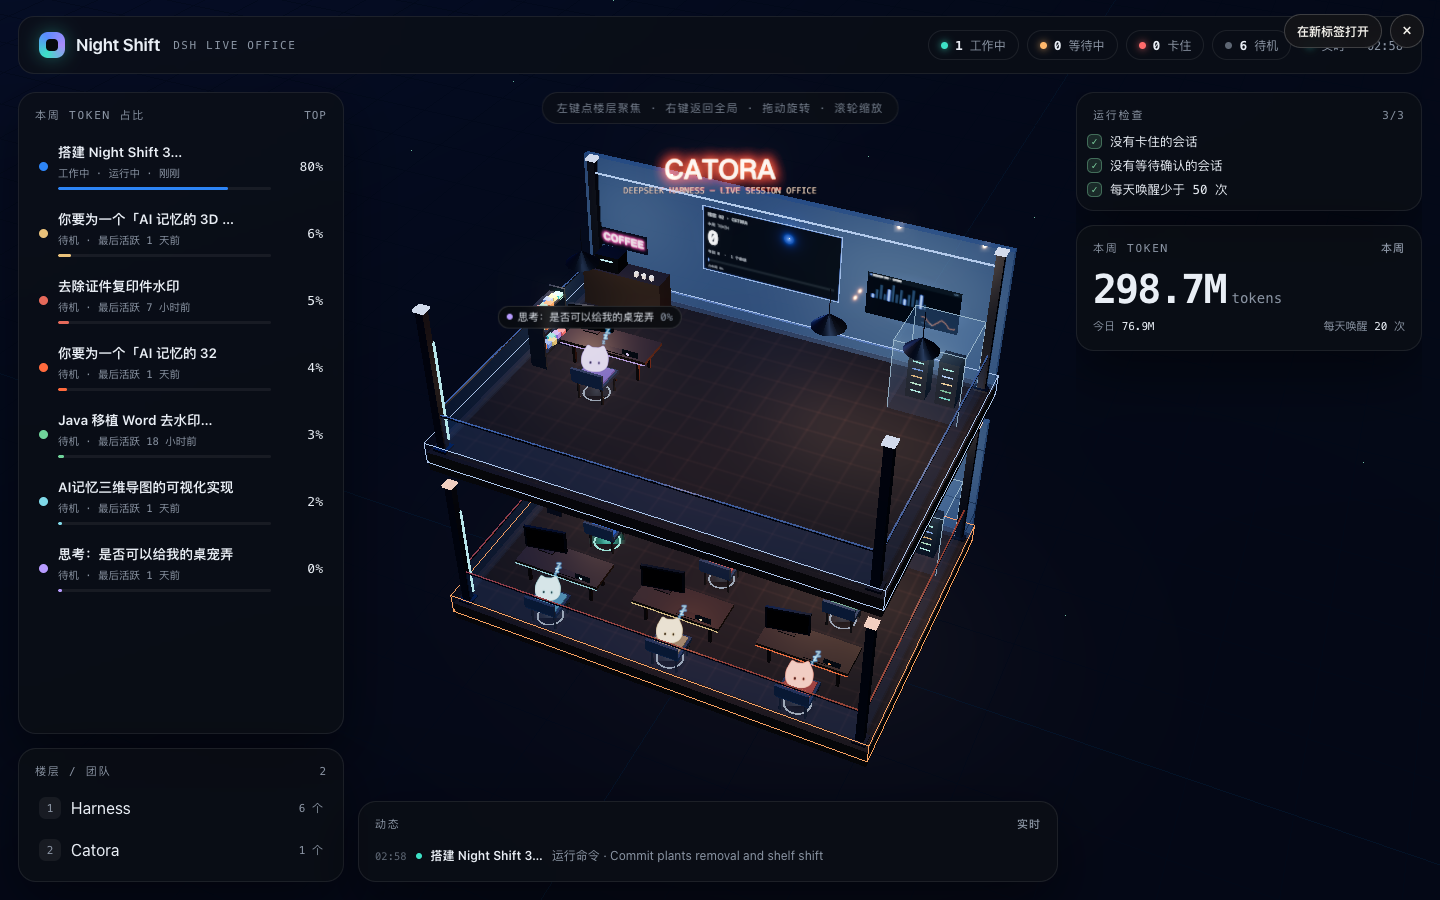
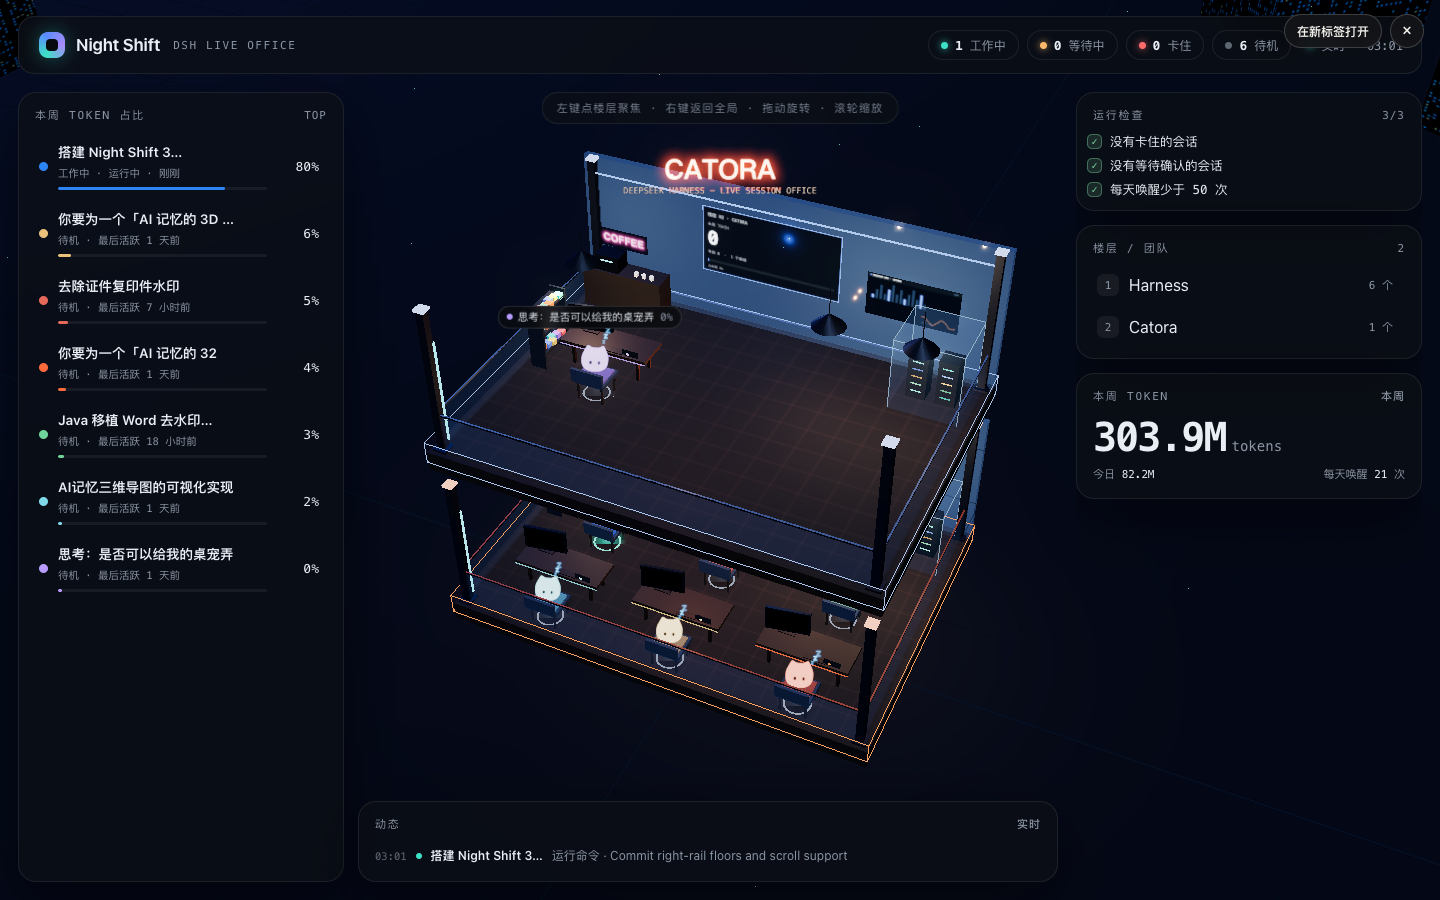
layout(hud): 楼层面板移到右栏，会话/楼层列表支持滚动
- 楼层/团队从左侧移到右栏（检查 → 楼层 → 用量）
- 左侧只保留会话榜，撑满高度
- 右侧楼层列表限高 30vh/238px，超出滚动
- 两侧列表自定义滚动条样式 + scrollbar-gutter，滚动时可见
- 版本 2.5.0

diff --git a/lib/panel.html b/lib/panel.html
@@ -59,10 +59,13 @@
 
   /* ---------- 左侧栏：榜单 + 楼层 ---------- */
   #left{position:absolute;left:18px;top:92px;bottom:18px;width:326px;display:flex;flex-direction:column;gap:14px;z-index:9;min-height:0}
+  #left > .panel{position:relative;left:auto;top:auto;bottom:auto}
   #board{position:relative;left:auto;top:auto;width:auto;flex:1 1 auto;min-height:0;max-height:none;display:flex;flex-direction:column}
-  #board .panel__body{overflow:auto;scrollbar-width:thin;scrollbar-color:#242a34 transparent}
-  #board .panel__body::-webkit-scrollbar{width:6px}
-  #board .panel__body::-webkit-scrollbar-thumb{background:#242a34;border-radius:3px}
+  #board .panel__body{overflow-y:auto;overflow-x:hidden;overscroll-behavior:contain;padding-right:6px;scrollbar-gutter:stable}
+  #board .panel__body::-webkit-scrollbar{width:8px}
+  #board .panel__body::-webkit-scrollbar-track{background:rgba(255,255,255,.03);border-radius:4px}
+  #board .panel__body::-webkit-scrollbar-thumb{background:rgba(255,255,255,.2);border-radius:4px}
+  #board .panel__body::-webkit-scrollbar-thumb:hover{background:rgba(255,255,255,.32)}
   .row{display:flex;align-items:center;gap:10px;padding:10px 10px;border-radius:12px;cursor:pointer;transition:background .15s;appearance:none;width:100%;border:0;background:transparent;color:inherit;font:inherit;text-align:left}
   .row:hover{background:rgba(255,255,255,.045)}
   .row:focus-visible,.floor:focus-visible{outline:2px solid rgba(61,225,198,.55);outline-offset:1px}
@@ -77,7 +80,11 @@
 
   /* ---------- 楼层 ---------- */
   #floors{position:relative;left:auto;bottom:auto;width:auto;flex:none}
-  #floors .panel__body{display:flex;flex-direction:column;gap:4px}
+  #floors .panel__body{display:flex;flex-direction:column;gap:4px;max-height:min(30vh,238px);overflow-y:auto;overflow-x:hidden;overscroll-behavior:contain;scrollbar-gutter:stable}
+  #floors .panel__body::-webkit-scrollbar{width:8px}
+  #floors .panel__body::-webkit-scrollbar-track{background:rgba(255,255,255,.03);border-radius:4px}
+  #floors .panel__body::-webkit-scrollbar-thumb{background:rgba(255,255,255,.2);border-radius:4px}
+  #floors .panel__body::-webkit-scrollbar-thumb:hover{background:rgba(255,255,255,.32)}
   .floor{display:flex;align-items:center;gap:10px;padding:8px 10px;border-radius:10px;cursor:pointer;font-size:13px;appearance:none;width:100%;border:0;background:transparent;color:inherit;font:inherit;text-align:left}
   .floor:hover{background:rgba(255,255,255,.045)}
   .floor.on{background:rgba(61,225,198,.1)}
@@ -180,11 +187,6 @@
       <div class="panel__head"><span>本周 TOKEN 占比</span><b>TOP</b></div>
       <div class="panel__body" id="boardBody"></div>
     </aside>
-
-    <aside id="floors" class="panel">
-      <div class="panel__head"><span>楼层 / 团队</span><b id="floorCount"></b></div>
-      <div class="panel__body" id="floorBody"></div>
-    </aside>
   </div>
 
   <aside id="right">
@@ -206,6 +208,11 @@
       <div class="panel__head"><span>运行检查</span><b id="checkScore"></b></div>
       <div class="panel__body" id="checkBody"></div>
     </section>
+
+    <aside id="floors" class="panel">
+      <div class="panel__head"><span>楼层 / 团队</span><b id="floorCount"></b></div>
+      <div class="panel__body" id="floorBody"></div>
+    </aside>
 
     <footer id="meter" class="panel">
       <div class="panel__head"><span>本周 TOKEN</span><b id="meterSpan">周一至今</b></div>

diff --git a/panel-src/index.html b/panel-src/index.html
@@ -59,10 +59,13 @@
 
   /* ---------- 左侧栏：榜单 + 楼层 ---------- */
   #left{position:absolute;left:18px;top:92px;bottom:18px;width:326px;display:flex;flex-direction:column;gap:14px;z-index:9;min-height:0}
+  #left > .panel{position:relative;left:auto;top:auto;bottom:auto}
   #board{position:relative;left:auto;top:auto;width:auto;flex:1 1 auto;min-height:0;max-height:none;display:flex;flex-direction:column}
-  #board .panel__body{overflow:auto;scrollbar-width:thin;scrollbar-color:#242a34 transparent}
-  #board .panel__body::-webkit-scrollbar{width:6px}
-  #board .panel__body::-webkit-scrollbar-thumb{background:#242a34;border-radius:3px}
+  #board .panel__body{overflow-y:auto;overflow-x:hidden;overscroll-behavior:contain;padding-right:6px;scrollbar-gutter:stable}
+  #board .panel__body::-webkit-scrollbar{width:8px}
+  #board .panel__body::-webkit-scrollbar-track{background:rgba(255,255,255,.03);border-radius:4px}
+  #board .panel__body::-webkit-scrollbar-thumb{background:rgba(255,255,255,.2);border-radius:4px}
+  #board .panel__body::-webkit-scrollbar-thumb:hover{background:rgba(255,255,255,.32)}
   .row{display:flex;align-items:center;gap:10px;padding:10px 10px;border-radius:12px;cursor:pointer;transition:background .15s;appearance:none;width:100%;border:0;background:transparent;color:inherit;font:inherit;text-align:left}
   .row:hover{background:rgba(255,255,255,.045)}
   .row:focus-visible,.floor:focus-visible{outline:2px solid rgba(61,225,198,.55);outline-offset:1px}
@@ -77,7 +80,11 @@
 
   /* ---------- 楼层 ---------- */
   #floors{position:relative;left:auto;bottom:auto;width:auto;flex:none}
-  #floors .panel__body{display:flex;flex-direction:column;gap:4px}
+  #floors .panel__body{display:flex;flex-direction:column;gap:4px;max-height:min(30vh,238px);overflow-y:auto;overflow-x:hidden;overscroll-behavior:contain;scrollbar-gutter:stable}
+  #floors .panel__body::-webkit-scrollbar{width:8px}
+  #floors .panel__body::-webkit-scrollbar-track{background:rgba(255,255,255,.03);border-radius:4px}
+  #floors .panel__body::-webkit-scrollbar-thumb{background:rgba(255,255,255,.2);border-radius:4px}
+  #floors .panel__body::-webkit-scrollbar-thumb:hover{background:rgba(255,255,255,.32)}
   .floor{display:flex;align-items:center;gap:10px;padding:8px 10px;border-radius:10px;cursor:pointer;font-size:13px;appearance:none;width:100%;border:0;background:transparent;color:inherit;font:inherit;text-align:left}
   .floor:hover{background:rgba(255,255,255,.045)}
   .floor.on{background:rgba(61,225,198,.1)}
@@ -180,11 +187,6 @@
       <div class="panel__head"><span>本周 TOKEN 占比</span><b>TOP</b></div>
       <div class="panel__body" id="boardBody"></div>
     </aside>
-
-    <aside id="floors" class="panel">
-      <div class="panel__head"><span>楼层 / 团队</span><b id="floorCount"></b></div>
-      <div class="panel__body" id="floorBody"></div>
-    </aside>
   </div>
 
   <aside id="right">
@@ -206,6 +208,11 @@
       <div class="panel__head"><span>运行检查</span><b id="checkScore"></b></div>
       <div class="panel__body" id="checkBody"></div>
     </section>
+
+    <aside id="floors" class="panel">
+      <div class="panel__head"><span>楼层 / 团队</span><b id="floorCount"></b></div>
+      <div class="panel__body" id="floorBody"></div>
+    </aside>
 
     <footer id="meter" class="panel">
       <div class="panel__head"><span>本周 TOKEN</span><b id="meterSpan">周一至今</b></div>
